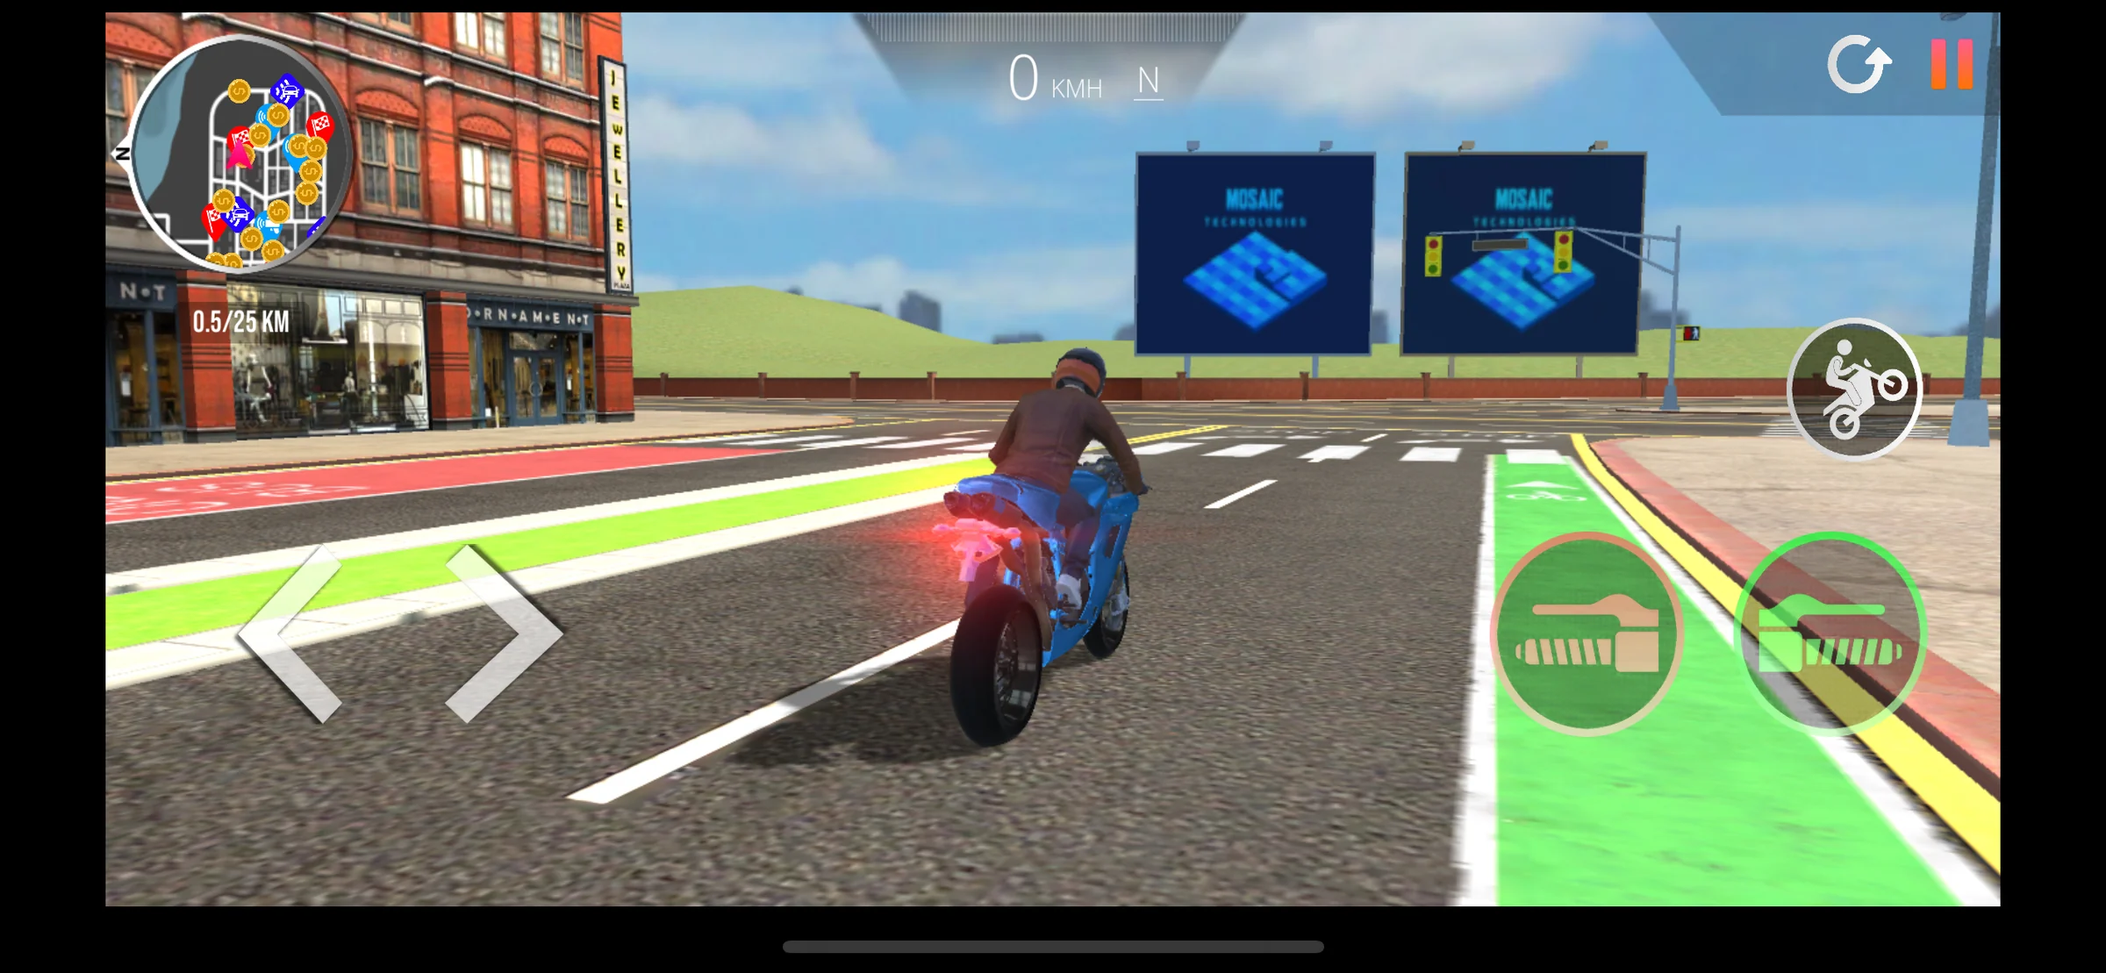
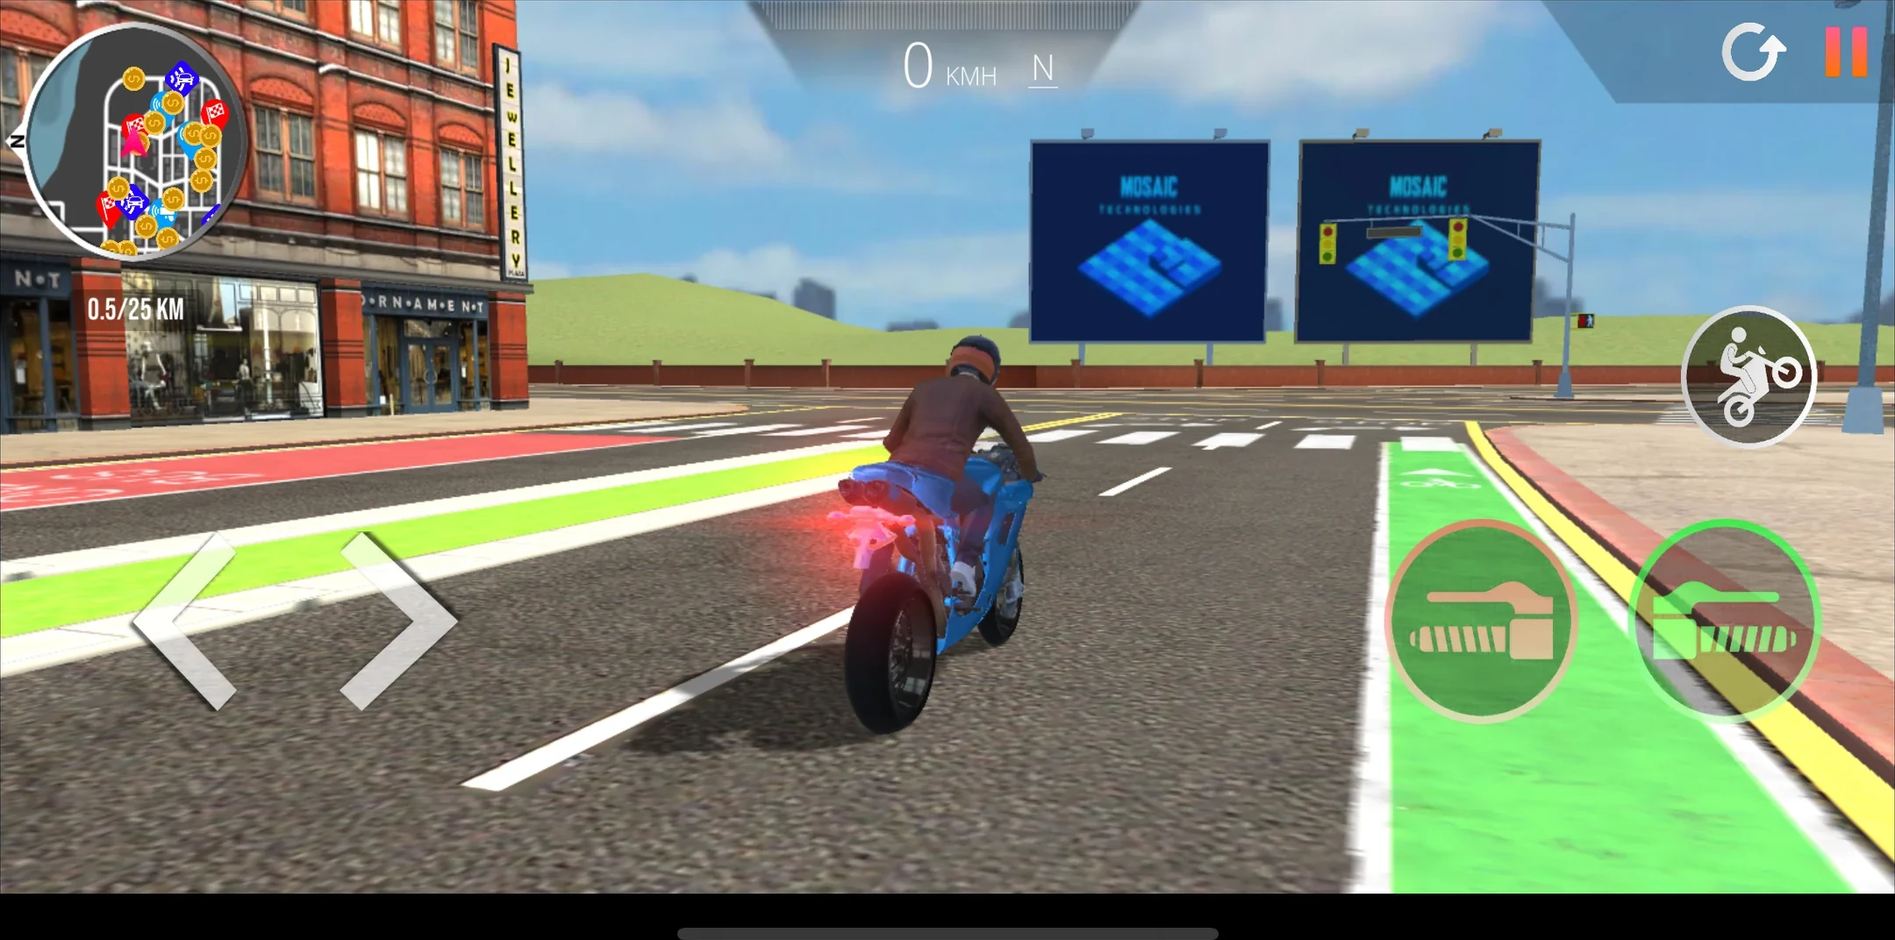
In-game full screen like CTV, rounded corners, moving gameplay only; tool fixes
- shared/ingame.js v6: the scene fills the screen only when it is held the way the game is played,
  otherwise the whole game on black (full screen on an upright phone, "turn sideways" hint); corners
  square in full screen like the rewarded units; gameplay video and ad start together on iPhone
  (no pausing to wait for "canplay", which Safari never sends for a paused video).
- In-game video uses moving gameplay only, never a still screenshot (new-ingame-mock.py).
- tools/trim-scene-bars.py: drops black safe-area strips baked into 7 library screenshots
  (run by build-ingame-library.py).
- afg-video-mobile template: the unit rounds its own corners (?round), so Chrome and Safari keep the
  page inside the phone; afg-video template: the phone redirect names index.html (works on R2 too).
- new-afg-video-mock.py: follows articles on hosts that drop www., uses a bundled Chromium when
  there is no Chrome (the Mock Builder worker).
- new-ingame-mock.py --slug; Roblox billboard defaults to the seated angle.
- new-showcase.py and the showcase template know the in-game and Roblox formats.

Claude-Session: https://claude.ai/code/session_01GLCYmbbgwGaMuuEcJA1888

diff --git a/shared/ingame.js b/shared/ingame.js
@@ -4,13 +4,19 @@
    Layers: background (image or video) > the creative on each billboard (letterboxed on black, warped onto the four corners
    with an exact perspective transform) > masks (things standing in front of the billboard, redrawn from the background)
    > overlay (Roblox's Ad icon, mute and expand buttons). The scene keeps its own units (image pixels or the SVG viewBox)
-   and is scaled to fit the window: cover when the window is nearly the same shape, otherwise contain on black.
+   and always fills the window (cover), keeping every billboard whole.
    window.DEMO = { setSound } so the page's sound button works for a video creative. */
 (function () {
   const S = window.SCENE, C = window.CREATIVE, Q = new URLSearchParams(location.search);
   const bust = u => { const v = Q.get('v'); return v ? u + (u.includes('?') ? '&' : '?') + 'v=' + encodeURIComponent(v) : u; };
   const stage = document.getElementById('stage');
-  if (Q.has('round')) document.documentElement.classList.add('round', innerWidth > innerHeight ? 'land' : 'port');
+  if (Q.has('round')) {
+    const r = document.documentElement;
+    r.classList.add('round', innerWidth > innerHeight ? 'land' : 'port');
+    // square corners while the page shows the ad full screen (shared/fullscreen.js sets .fs on it), as the rewarded units do
+    try { const ph = parent.document.documentElement, sync = () => r.classList.toggle('round', !ph.classList.contains('fs'));
+      new MutationObserver(sync).observe(ph, { attributes: true, attributeFilter: ['class'] }); sync(); } catch (e) {}
+  }
   const scene = document.createElement('div'); scene.className = 'scene';
   scene.style.width = S.w + 'px'; scene.style.height = S.h + 'px';
   stage.appendChild(scene);
@@ -50,11 +56,29 @@
   if (S.overlay) { const o = new Image(); o.src = bust(S.overlay); o.className = 'overlay'; o.alt = ''; scene.appendChild(o); }
 
   // fit the scene to the window
+  /* games are played full screen (user, 2026-11-12): the scene always fills the screen (cover), centred, then moved just enough
+     that every billboard stays whole. A billboard wider than the cropped view keeps the crop centred on it. ?contain = old fit. */
+  const xs = S.quads.flat().map(p => p[0]), ys = S.quads.flat().map(p => p[1]);
+  const box = { x0: Math.min(...xs), x1: Math.max(...xs), y0: Math.min(...ys), y1: Math.max(...ys) };
+  const keep = (t, lo, hi, view, size, k) => {          // t = offset; keep [lo, hi] (scene units) inside [0, view]
+    const min = view - size * k, a = view - hi * k, b = -lo * k; // allowed offsets: [min, 0]; billboard visible: [a, b]
+    if (a <= b) t = Math.min(Math.max(t, a), b); else t = view / 2 - (lo + hi) / 2 * k;
+    return Math.min(0, Math.max(min, t));
+  };
   function fit() {
-    const W = stage.clientWidth, H = stage.clientHeight, sa = S.w / S.h, wa = W / H;
-    const near = Math.abs(Math.log(wa / sa)) < 0.09 && !Q.has('contain');
-    const k = near ? Math.max(W / S.w, H / S.h) : Math.min(W / S.w, H / S.h);
-    scene.style.transform = `translate(${(W - S.w * k) / 2}px, ${(H - S.h * k) / 2}px) scale(${k})`;
+    const W = stage.clientWidth, H = stage.clientHeight;
+    if (Q.has('contain')) {
+      const k = Math.min(W / S.w, H / S.h);
+      scene.style.transform = `translate(${(W - S.w * k) / 2}px, ${(H - S.h * k) / 2}px) scale(${k})`; return;
+    }
+    /* fill only when the screen is held the way the game is played (same shape, e.g. a sideways phone for a sideways game);
+       otherwise show the whole game on black, like CTV in full screen: an upright phone gets the sideways game whole, with the
+       "turn your phone sideways" hint, and fills once turned (user, 2026-11-12) */
+    const sameShape = Math.abs(Math.log((W / H) / (S.w / S.h))) < 0.5;
+    const k = sameShape ? Math.max(W / S.w, H / S.h) : Math.min(W / S.w, H / S.h);
+    const tx = sameShape ? keep((W - S.w * k) / 2, box.x0, box.x1, W, S.w, k) : (W - S.w * k) / 2;
+    const ty = sameShape ? keep((H - S.h * k) / 2, box.y0, box.y1, H, S.h, k) : (H - S.h * k) / 2;
+    scene.style.transform = `translate(${tx}px, ${ty}px) scale(${k})`;
   }
   addEventListener('resize', fit); new ResizeObserver(fit).observe(stage); fit();
 
@@ -66,10 +90,15 @@
     bgVideo.loop = false;
     vids.forEach(v => { v.loop = false; v.addEventListener('loadedmetadata', () => { if (bgVideo.duration && v.duration < bgVideo.duration - .25) v.loop = true; }); });
     const all = [bgVideo, ...vids];
-    const restart = () => all.forEach(v => { v.currentTime = 0; v.play().catch(() => {}); });
+    let started = false;
+    const restart = () => { started = true; all.forEach(v => { v.currentTime = 0; const p = v.play(); if (p) p.catch(() => {}); }); };
     bgVideo.addEventListener('ended', restart);
-    let ready = 0;   // start both on the same frame once each can play
-    all.forEach(v => { v.pause(); v.addEventListener('canplay', () => { if (++ready === all.length) restart(); }, { once: true }); });
+    /* start both on the same frame: let them autoplay (muted), and once each is actually playing put both back to 0 together.
+       Never pause them to wait: iPhone Safari doesn't load a paused video, so "canplay" never came and both stayed frozen
+       (user, 2026-11-12). A timer starts them together anyway if one never reports playing. */
+    let ready = 0;
+    all.forEach(v => v.addEventListener('playing', () => { if (!started && ++ready === all.length) restart(); }, { once: true }));
+    setTimeout(() => { if (!started) restart(); }, 2500);
   }
 
   function media(tag, src) {

diff --git a/afg-video-mobile/_template/mock.html b/afg-video-mobile/_template/mock.html
@@ -7,7 +7,7 @@
 <title>Brand · Away from the game video</title>
 <link rel="preconnect" href="https://fonts.googleapis.com"><link rel="preconnect" href="https://fonts.gstatic.com" crossorigin>
 <link rel="stylesheet" href="https://fonts.googleapis.com/css2?family=Roboto:wght@500&family=Inter:wght@500&display=swap">
-<script>{const q=new URLSearchParams(location.search);if(q.has('embed'))document.documentElement.classList.add('embed');if(q.has('full'))document.documentElement.classList.add('full');}</script>
+<script>{const q=new URLSearchParams(location.search);if(q.has('embed'))document.documentElement.classList.add('embed');if(q.has('full'))document.documentElement.classList.add('full');if(q.has('round'))document.documentElement.classList.add('round');}</script>
 <style>
 /* Away from the game video: a publisher's article, our spot playing as the pre-roll in the site's own video player.
    The site is a snapshot (assets/site.webp at 2x, other ads removed) made by _work/new-afg-video-mock.py, which also writes SITE
@@ -27,6 +27,11 @@ html{clip-path:inset(0)}
 .screen{position:fixed;left:50%;top:50%;transform:translate(-50%,-50%);background:#fff;overflow:hidden;container-type:size;
   clip-path:inset(0)}
 html.embed .screen,html.full .screen{width:100vw;height:100vh}
+/* ?round (set by the phone page): the unit rounds its own corners to the phone screen's radius. Safari (and Chrome with the blurred bars,
+   the video and the scrolling page on their own layers) ignores the parent page's rounded clip on an iframe; same trick as the rewarded units */
+html.round,html.round body{background:transparent}
+html.round .screen{border-radius:13.2% / 6.1%;overflow:hidden;isolation:isolate;clip-path:inset(0 round 13.2% / 6.1%);
+  -webkit-mask-image:-webkit-radial-gradient(white,black);mask-image:radial-gradient(white,black)}
 .site{--px:calc(100cqw / var(--w,1440));position:absolute;left:0;top:0;width:100cqw;transform:translateY(calc(var(--y,0) * -1 * var(--px)))}   /* no will-change: as its own layer Chrome drew it onto the phone rim above the frame */
 .site img{display:block;width:100%;height:auto}
 .slot{position:absolute;margin-top:var(--band,0px);background:#000;overflow:hidden;opacity:0;transition:opacity .25s}

diff --git a/showcase/_template/index.html b/showcase/_template/index.html
@@ -34,6 +34,9 @@ const ICON = {
   phoneWeb: '<svg viewBox="0 0 24 24" fill="none" stroke="currentColor" stroke-width="1.7" stroke-linecap="round" stroke-linejoin="round" aria-hidden="true"><rect x="6.5" y="2.5" width="11" height="19" rx="2.5"/><path d="M9 6.5h6"/><path d="M10.6 10.6v3.8l3.2-1.9z"/></svg>',
   phoneImg: '<svg viewBox="0 0 24 24" fill="none" stroke="currentColor" stroke-width="1.7" stroke-linecap="round" stroke-linejoin="round" aria-hidden="true"><rect x="6.5" y="2.5" width="11" height="19" rx="2.5"/><path d="M9 16.5l2.2-2.8 1.6 1.9 1.2-1.4 1 2.3"/><circle cx="10.4" cy="8.6" r="1.1"/></svg>',
   phonePlay: '<svg viewBox="0 0 24 24" fill="none" stroke="currentColor" stroke-width="1.7" stroke-linecap="round" stroke-linejoin="round" aria-hidden="true"><rect x="6.5" y="2.5" width="11" height="19" rx="2.5"/><path d="M10.6 6.8v3.4l2.9-1.7z"/><path d="M9.5 14.5h5M12 13v3"/></svg>',
+  billboard: '<svg viewBox="0 0 24 24" fill="none" stroke="currentColor" stroke-width="1.7" stroke-linecap="round" stroke-linejoin="round" aria-hidden="true"><rect x="3.5" y="4.5" width="17" height="10" rx="1.5"/><path d="M9 14.5v5M15 14.5v5"/></svg>',
+  billboardPlay: '<svg viewBox="0 0 24 24" fill="none" stroke="currentColor" stroke-width="1.7" stroke-linecap="round" stroke-linejoin="round" aria-hidden="true"><rect x="3.5" y="4.5" width="17" height="10" rx="1.5"/><path d="M9 14.5v5M15 14.5v5"/><path d="M10.8 7.6v3.8l3.2-1.9z"/></svg>',
+  roblox: '<svg viewBox="0 0 24 24" fill="none" stroke="currentColor" stroke-width="1.7" stroke-linecap="round" stroke-linejoin="round" aria-hidden="true"><rect x="5.5" y="5.5" width="13" height="13" rx="1" transform="rotate(15 12 12)"/><rect x="10.3" y="10.3" width="3.4" height="3.4" transform="rotate(15 12 12)"/></svg>',
 };
 // tab label (short = phone tab bar) · icon · the mock page (relative to this page) · #hash for deep links
 const MOCKS = [

diff --git a/afg-video-mobile/_template/index.html b/afg-video-mobile/_template/index.html
@@ -34,7 +34,7 @@
 <section class="stage phone-stage">
   <div class="phone" data-noqr>
     <div class="screen">
-      <div class="ad-slot fill" data-full="mock.html?full=1"><iframe src="mock.html?embed=1" title="Away from the game video mock, mobile web" allow="autoplay"></iframe><script>{const v=new URLSearchParams(location.search).get("v"),f=document.currentScript.previousElementSibling;if(v&&f&&f.tagName==="IFRAME")f.src=f.getAttribute("src")+"&v="+encodeURIComponent(v);}</script></div>
+      <div class="ad-slot fill" data-full="mock.html?full=1"><iframe src="mock.html?embed=1&amp;round" title="Away from the game video mock, mobile web" allow="autoplay"></iframe><script>{const v=new URLSearchParams(location.search).get("v"),f=document.currentScript.previousElementSibling;if(v&&f&&f.tagName==="IFRAME")f.src=f.getAttribute("src")+"&v="+encodeURIComponent(v);}</script></div>
       <div class="statusbar"><span>9:41</span><span class="icons">
         <svg viewBox="0 0 18 12" fill="#fff" aria-hidden="true"><rect x="0" y="8" width="3" height="4" rx=".8"/><rect x="5" y="5.5" width="3" height="6.5" rx=".8"/><rect x="10" y="3" width="3" height="9" rx=".8"/><rect x="15" y="0" width="3" height="12" rx=".8"/></svg>
         <svg viewBox="0 0 17 12" fill="#fff" aria-hidden="true"><path d="M8.5 11.6L5.95 9.05A3.6 3.6 0 0 1 11.05 9.05ZM3.27 6.37A7.4 7.4 0 0 1 13.73 6.37L12.04 8.06A5.0 5.0 0 0 0 4.96 8.06ZM0.58 3.68A11.2 11.2 0 0 1 16.42 3.68L14.72 5.38A8.8 8.8 0 0 0 2.28 5.38Z"/></svg>

diff --git a/afg-video/_template/index.html b/afg-video/_template/index.html
@@ -9,7 +9,7 @@
 {const u=(document.querySelector('meta[name="iion-mobile"]')||{}).content,q=new URLSearchParams(location.search),ua=navigator.userAgent||'';
  const phone=(navigator.userAgentData&&navigator.userAgentData.mobile)||/iPhone|iPod|Android.+Mobile|Windows Phone|Mobile Safari/i.test(ua)&&!/iPad|Tablet/i.test(ua);
  if(u&&phone&&!q.has('laptop')){const v=q.get('v'),vv=v?'v='+encodeURIComponent(v):'';
-  location.replace(q.has('desktop')?u+'?desktop'+(vv?'&'+vv:''):u+'mock.html?full=1'+(vv?'&'+vv:''));}}</script>
+  const f=u.replace(/index\.html$/,'');location.replace(q.has('desktop')?f+'index.html?desktop'+(vv?'&'+vv:''):f+'mock.html?full=1'+(vv?'&'+vv:''));}}</script>
 <meta name="robots" content="noindex,nofollow">
 <title>iion · Brand away from the game video</title>
 <link rel="icon" type="image/png" sizes="32x32" href="../../shared/favicon-32.png"><link rel="icon" type="image/png" sizes="64x64" href="../../shared/favicon-64.png"><link rel="apple-touch-icon" href="../../shared/favicon-180.png">

diff --git a/ingame-display/_template/mock.html b/ingame-display/_template/mock.html
@@ -14,6 +14,6 @@
 window.SCENE = {};
 window.CREATIVE = {};
 </script>
-<script src="../../shared/ingame.js?v=2"></script>
+<script src="../../shared/ingame.js?v=6"></script>
 </body>
 </html>

diff --git a/ingame-video/_template/mock.html b/ingame-video/_template/mock.html
@@ -14,6 +14,6 @@
 window.SCENE = {};
 window.CREATIVE = {};
 </script>
-<script src="../../shared/ingame.js?v=2"></script>
+<script src="../../shared/ingame.js?v=6"></script>
 </body>
 </html>

diff --git a/roblox-billboard/_template/mock.html b/roblox-billboard/_template/mock.html
@@ -14,6 +14,6 @@
 window.SCENE = {};
 window.CREATIVE = {};
 </script>
-<script src="../../shared/ingame.js?v=2"></script>
+<script src="../../shared/ingame.js?v=6"></script>
 </body>
 </html>

diff --git a/roblox-video/_template/mock.html b/roblox-video/_template/mock.html
@@ -14,6 +14,6 @@
 window.SCENE = {};
 window.CREATIVE = {};
 </script>
-<script src="../../shared/ingame.js?v=2"></script>
+<script src="../../shared/ingame.js?v=6"></script>
 </body>
 </html>

diff --git a/tools/new-ingame-mock.py b/tools/new-ingame-mock.py
@@ -6,7 +6,7 @@
   python tools/new-ingame-mock.py --format roblox-billboard --brand "Brand" --creative banner.jpg
   python tools/new-ingame-mock.py --format roblox-video   --brand "Brand" --creative spot.mp4
   ... --list                       only rank the scenes for this creative, build nothing
-  ... --scene ingame-boom-karts    use this scene instead of the best one (ids from --list or tools/ingame-library/scenes.json)
+  ... --scene ingame-boom-karts    use this scene instead of the best one (roblox-billboard always uses roblox-billboard-2 unless set) (ids from --list or tools/ingame-library/scenes.json)
   ... --game "Dragon City"         only consider this game's scenes
 
 The creative is letterboxed on black inside each billboard (never cropped or stretched), so the scene whose billboard shape
@@ -22,11 +22,14 @@ REPO = Path(__file__).resolve().parent.parent
 LIB = REPO / "tools" / "ingame-library"
 FORMATS = {
     "ingame-display": {"category": "ingame", "formats": ["display"], "label": "In-game display"},
-    "ingame-video": {"category": "ingame", "formats": ["video", "display"], "label": "In-game video"},
+    "ingame-video": {"category": "ingame", "formats": ["video"], "label": "In-game video"},   # moving gameplay only, never a still (user, 2026-11-12)
     "roblox-billboard": {"category": "roblox", "formats": ["display"], "label": "Roblox billboard"},
     "roblox-video": {"category": "roblox", "formats": ["video"], "label": "Roblox video"},
 }
 VIDEO_EXT = {".mp4", ".mov", ".webm", ".m4v"}
+# formats that always use one scene unless --scene says otherwise (user, 2026-11-12: Roblox billboards are one room from two
+# angles; use the one with the player sitting on a stool, three-quarter view)
+DEFAULT_SCENE = {"roblox-billboard": "roblox-billboard-2"}
 
 
 def creative_ratio(path):
@@ -83,6 +86,7 @@ def main():
     ap.add_argument("--brand")
     ap.add_argument("--headline", default="")
     ap.add_argument("--suffix")
+    ap.add_argument("--slug", help="folder name before the suffix (default: the brand, lower-case, dashes)")
     ap.add_argument("--scene")
     ap.add_argument("--game")
     ap.add_argument("--list", action="store_true")
@@ -103,11 +107,13 @@ def main():
               + ("  (gameplay video)" if s.get("bgVideo") else ""))
     if a.list: return
 
-    scene = next((s for s in scenes if s["id"] == a.scene), None) if a.scene else ranked[0][2]
-    if not scene: sys.exit(f"unknown scene {a.scene}")
+    pick = a.scene or DEFAULT_SCENE.get(a.format)
+    scene = next((s for s in scenes if s["id"] == pick), None) if pick else ranked[0][2]
+    if not scene: sys.exit(f"unknown scene {pick}")
+    if not a.scene and pick: print(f"using {pick}, the fixed scene for {a.format} (--scene to change)")
     if not a.brand: sys.exit("--brand is needed to build a mock")
     sfx = a.suffix or "".join(random.choice(string.ascii_lowercase + string.digits) for _ in range(4))
-    dest = REPO / a.format / f"{slug(a.brand)}-{sfx}"
+    dest = REPO / a.format / f"{a.slug or slug(a.brand)}-{sfx}"
     if dest.exists() and not a.force: sys.exit(f"{dest.relative_to(REPO)} exists (use --force to rebuild)")
     if dest.exists(): shutil.rmtree(dest)
     tpl = REPO / a.format / "_template"

diff --git a/tools/trim-scene-bars.py b/tools/trim-scene-bars.py
@@ -1,0 +1,54 @@
+#!/usr/bin/env python3
+"""Trim black strips baked into game screenshots in tools/ingame-library (screenshots taken on phones with safe-area margins).
+
+  python tools/trim-scene-bars.py [--dry-run]
+
+Games are played full screen, so a mock should never show the phone's own black margins as part of the game (user, 2026-11-12).
+Crops each still screenshot (no gameplay video, no masks or overlay to shift) to where the picture starts, and moves its billboard
+corners with it. Safe to run again: a trimmed scene has no strips left. tools/build-ingame-library.py runs it at the end.
+"""
+import json, sys
+from pathlib import Path
+from PIL import Image
+import numpy as np
+
+LIB = Path(__file__).resolve().parent / "ingame-library"
+
+
+def edges(a):
+    """black strips (in pixels) on each side: left, right, top, bottom"""
+    dark_col = lambda x: (a[:, x] < 18).mean() > 0.97
+    dark_row = lambda y: (a[y] < 18).mean() > 0.97
+    H, W = a.shape
+    l = next((x for x in range(W // 4) if not dark_col(x)), 0)
+    r = next((x for x in range(W // 4) if not dark_col(W - 1 - x)), 0)
+    t = next((y for y in range(H // 4) if not dark_row(y)), 0)
+    b = next((y for y in range(H // 4) if not dark_row(H - 1 - y)), 0)
+    return l, r, t, b
+
+
+def main():
+    dry = "--dry-run" in sys.argv
+    data = json.loads((LIB / "scenes.json").read_text(encoding="utf-8"))
+    changed = 0
+    for s in data["scenes"]:
+        if s.get("bgVideo") or s.get("masks") or s.get("overlay"): continue
+        p = LIB / s["bg"]
+        im = Image.open(p); a = np.asarray(im.convert("L"))
+        l, r, t, b = edges(a)
+        if max(l, r, t, b) < 5: continue
+        k = im.width / s["w"]                      # image pixels per scene unit
+        box = (l, t, im.width - r, im.height - b)
+        print(f"{s['id']}: trim {l}/{r}/{t}/{b} px (l/r/t/b) of {im.width}x{im.height}")
+        changed += 1
+        if dry: continue
+        im.crop(box).save(p, quality=90, method=6) if p.suffix == ".webp" else im.crop(box).save(p)
+        s["w"] = round((box[2] - box[0]) / k, 2); s["h"] = round((box[3] - box[1]) / k, 2)
+        s["quads"] = [[[round(x - l / k, 2), round(y - t / k, 2)] for x, y in q] for q in s["quads"]]
+    if changed and not dry:
+        (LIB / "scenes.json").write_text(json.dumps(data, indent=1) + "\n", encoding="utf-8")
+    print(f"{changed} scene(s) {'would be ' if dry else ''}trimmed")
+
+
+if __name__ == "__main__":
+    main()

diff --git a/tools/new-afg-video-mock.py b/tools/new-afg-video-mock.py
@@ -73,7 +73,9 @@ def snapshot(url, out_png, player_sel, dev):
     W, H = dev['w'], dev['h']
     from playwright.sync_api import sync_playwright
     with sync_playwright() as p:
-        b = p.chromium.launch(channel='chrome', headless=True)
+        try: b = p.chromium.launch(channel='chrome', headless=True)          # the installed Chrome (this machine)
+        except Exception:                                                     # a server without Chrome (the Mock Builder worker)
+            b = p.chromium.launch(headless=True, executable_path=os.environ.get('AFG_CHROMIUM') or None)
         pg = b.new_page(viewport={'width': W, 'height': H}, device_scale_factor=2, locale='en-GB', **dev['ctx'])
         pg.route('**/*', lambda r: r.abort() if any(h in r.request.url for h in BLOCK) else r.continue_())
         def load(u):
@@ -84,9 +86,9 @@ def snapshot(url, out_png, player_sel, dev):
             return pg.evaluate(FIND_PLAYER, player_sel)
         found, used = load(url), url
         if not found:   # a listing page: try its articles
-            host = urlparse(url).netloc
+            host = urlparse(pg.url).netloc.removeprefix('www.')   # where the page landed (moneyweek.com drops the www.)
             links = pg.evaluate('''host => [...new Set([...document.querySelectorAll('main a[href], article a[href], a[href]')]
-              .map(a => a.href.split('#')[0]).filter(h => { try { const u = new URL(h); return u.host === host && u.pathname.split('/').filter(Boolean).length >= 2 &&
+              .map(a => a.href.split('#')[0]).filter(h => { try { const u = new URL(h); return u.host.replace(/^www\./, '') === host && u.pathname.split('/').filter(Boolean).length >= 2 &&
               /[a-z0-9]+-[a-z0-9]+-[a-z0-9]+-[a-z0-9]+/.test(u.pathname) } catch (e) { return false } }))].slice(0, 10)''', host)
             for u in links:
                 print('  no player there, trying', u)
